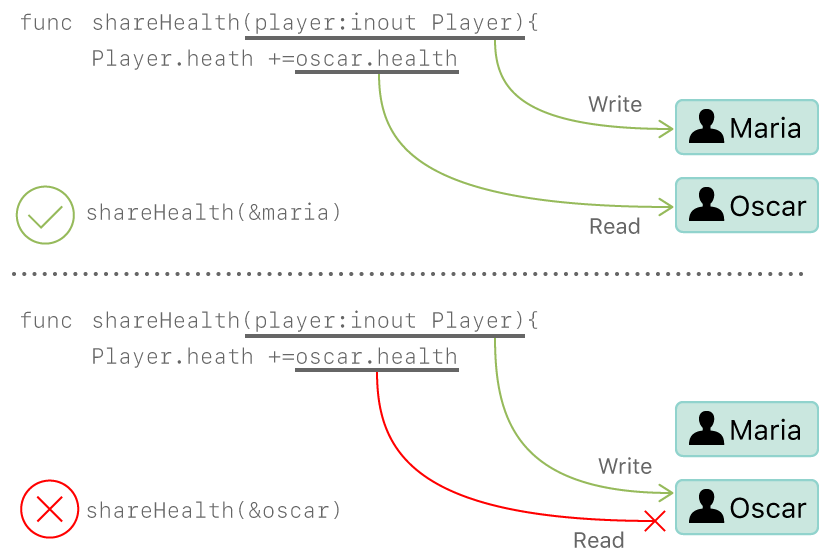
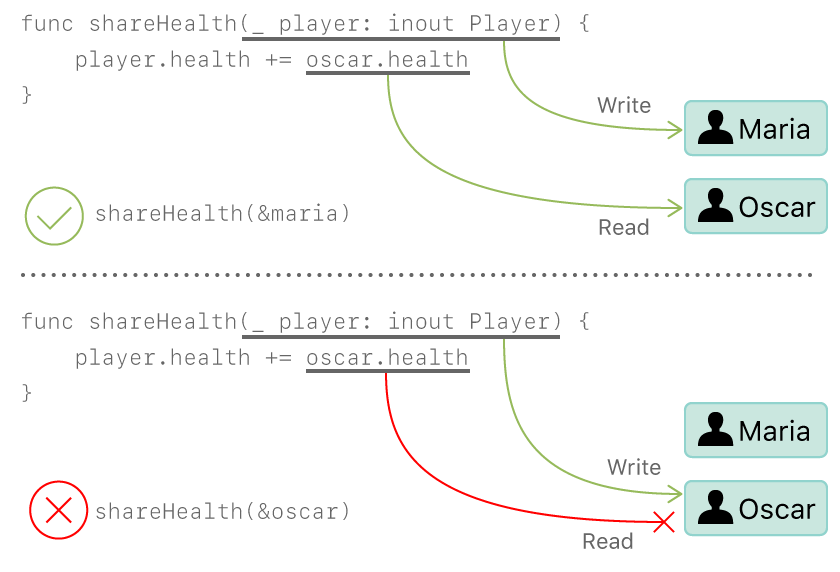
Fix code typos in image.

diff --git a/LanguageGuide/MemorySafety.rst b/LanguageGuide/MemorySafety.rst
@@ -213,10 +213,6 @@ and dividing the health points evenly between them.
 .. image:: ../images/memory_share_health_2x.png
    :align: center
 
-.. XXX Missing whitespace in the figure before "inout"
-.. XXX Incorrect case in figure for "Player.health"
-.. XXX Missing close brace in figure
-
 In the first case,
 Oscar shares health with Maria,
 which works as expected.
